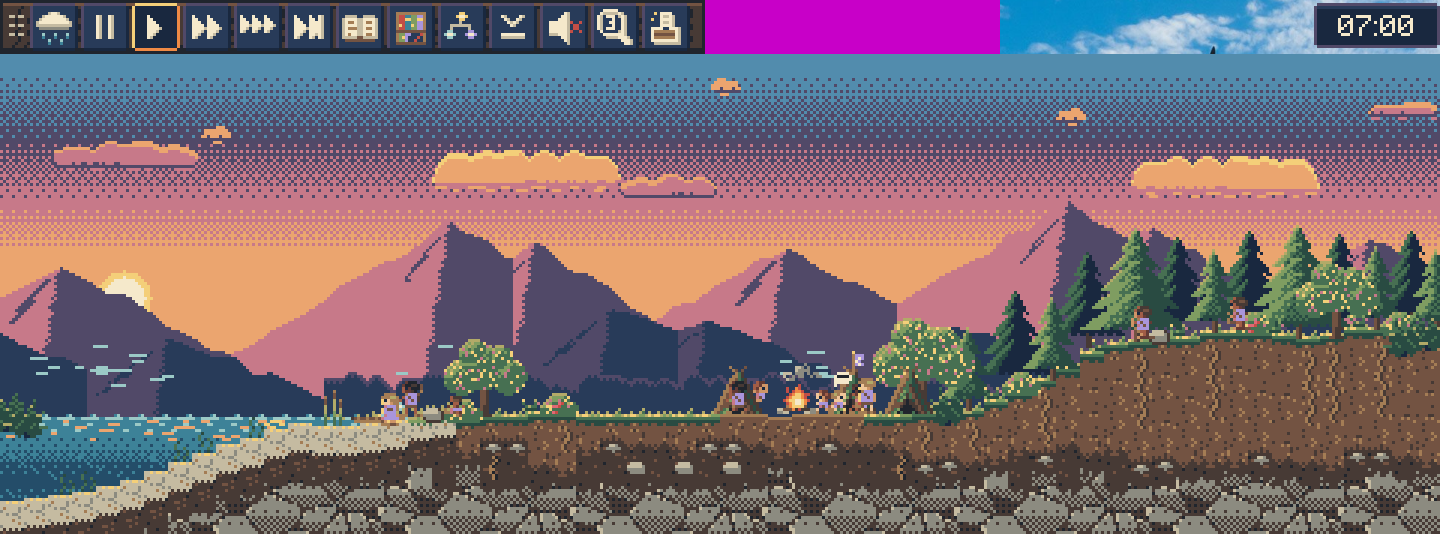
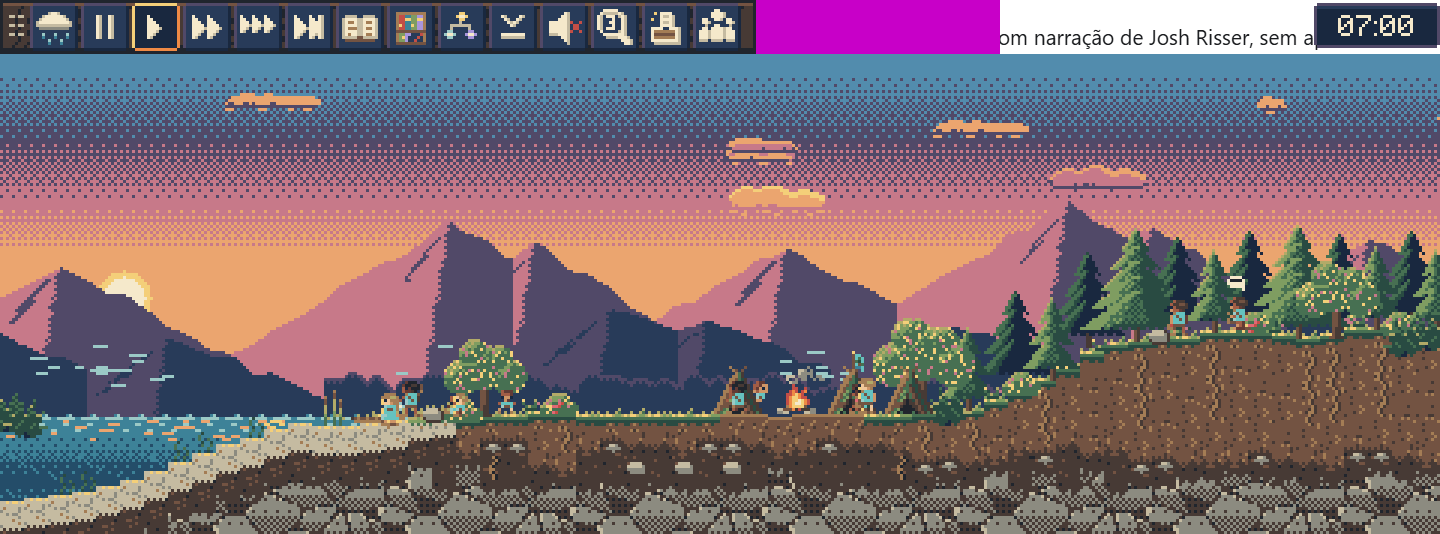
Painel da população: capturas dos dois níveis (docs/imagens/painel-da-populacao.png), CPU no cenário grande 6,20% sem e 5,54% com o painel (um núcleo), verificar.ps1 com janela 2 rodadas 23/23

diff --git a/jogo/RELATORIO.md b/jogo/RELATORIO.md
@@ -19,6 +19,16 @@ Tarefas 1 a 5 do briefing `sessoes/fase1-b-apresentacao.md`. Este relatório cob
   - O testar_preces passa 11/11, a lupa 5/0/1 e o som 8/0/1.
 - **O verificar.ps1:** ganhou o passo "populacao: abre e fecha" (23 itens) e acompanhou a alça de 252 px (422 px com os poderes abertos).
 - **O medir.ps1:** ganhou `-Extra` (opções a mais para o jogo, como `--abrir=povo`) e `-Nome`.
+- **O contrato da D:** o botão tem id `populacao` e o painel fica em `interface._populacao`. Ele expõe `nivel`, `povo`, `total`, `linhas`, `ponto_da_linha(i)`, `ponto_do_voltar()`, `rolagem` e `rolagem_max()`. A dica é "População: N (G)", com `mundo.populacao()`. O ícone definitivo é o da C (5a868c5).
+- **A medição** (`medir.ps1 -Cenario grande`: 200 anos, 1x, 120 s depois de 30 s de aquecimento, janela de verdade):
+
+  | | % de um núcleo | Gerenciador | conjunto de trabalho |
+  |---|---|---|---|
+  | sem o painel | 6,20 | 196,7 MB | 302,4 MB |
+  | com o painel aberto num povo | 5,54 | 195,1 MB | 300,8 MB |
+
+  A diferença está dentro do ruído: o painel só se redesenha quando a hora vira ou o cursor se move sobre ele. As duas medições ficam abaixo da meta de cerca de 8%.
+- **O verificar.ps1 com janela de verdade:** duas rodadas limpas, 23 de 23, com "populacao: abre e fecha".
 
 ## A caixa de preces e o termômetro de fé (pedido do autor em 03/11/2026)
 
